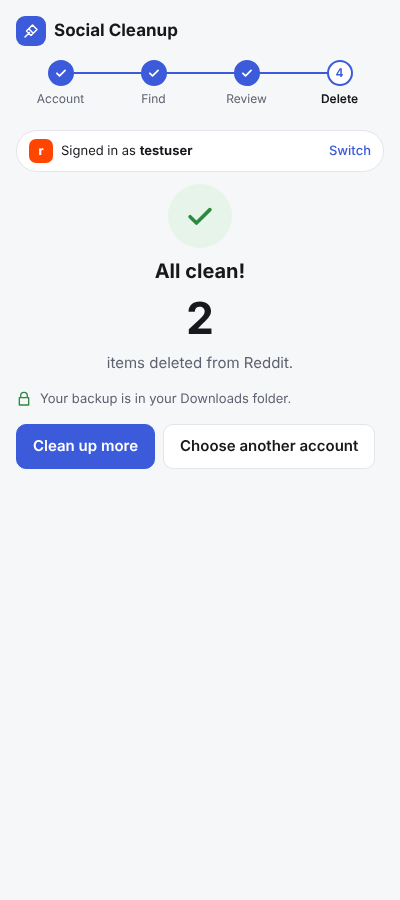
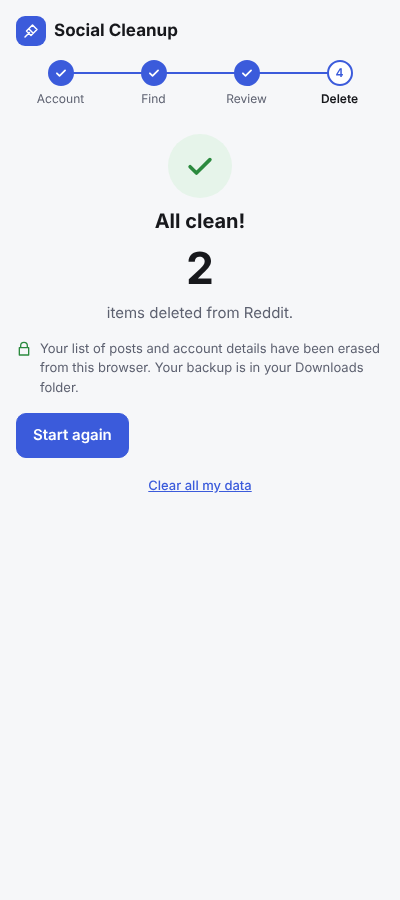
v0.3.2: erase data after each cleanup, add Clear all my data
When a cleanup finishes, the post list, username and activity log are
erased automatically (only items that failed are kept, for retry). A new
"Clear all my data" button on the first and last screens erases
everything the extension has stored, after a confirmation.

Claude-Session: https://claude.ai/code/session_013NpL9fuHkv5wYGZv5dDsxS

diff --git a/src/sidepanel/app.js b/src/sidepanel/app.js
@@ -30,6 +30,8 @@ const ui = {
   confirming: false,
   understood: false,
   confirmStop: false,
+  confirmClear: false,
+  cleared: false,
   importStatus: '',
 };
 
@@ -111,12 +113,26 @@ function renderStepper() {
 }
 
 function accountBar() {
+  if (!job?.user) return '';
   const c = cfg();
   return html`<div class="account">
     ${tile(c.tile, 'small')}
     <span>Signed in as <strong>${escapeHtml(job.user)}</strong></span>
     ${['running', 'paused'].includes(job.status) ? '' : '<button class="link" data-action="disconnect">Switch</button>'}
   </div>`;
+}
+
+// "Clear all my data", with an are-you-sure step.
+function clearDataBlock() {
+  if (ui.cleared) {
+    return `<div class="notice calm" role="status">${ICON.check}<div><strong>All your data has been erased</strong><p>Nothing from Social Cleanup is stored in this browser any more.</p></div></div>`;
+  }
+  if (ui.confirmClear) {
+    return `<div class="notice warn">${ICON.alert}<div><strong>Erase everything Social Cleanup has stored in this browser?</strong>
+      <p>This removes any lists of posts, account names and progress. Backup files in your Downloads folder aren't affected.</p>
+      <div class="actions"><button class="danger" data-action="clearAll">Yes, erase everything</button><button data-action="cancelClear">Cancel</button></div></div></div>`;
+  }
+  return '<button class="link clear-data" data-action="askClear">Clear all my data</button>';
 }
 
 // ---------- step 1: choose account ----------
@@ -136,7 +152,8 @@ function chooseView() {
   return html`<h2 class="title">Which account do you want to clean up?</h2>
     <p class="lead">Make sure you're signed in to it in this browser.</p>
     <div class="platforms">${cards}${soon}</div>
-    <div class="notice calm">${ICON.lock}<div><strong>Private by design</strong><p>Everything happens on this computer. We never see your password or your posts, and nothing is deleted until you say so.</p></div></div>`;
+    <div class="notice calm">${ICON.lock}<div><strong>Private by design</strong><p>Everything happens on this computer. We never see your password or your posts, and nothing is deleted until you say so.</p></div></div>
+    ${clearDataBlock()}`;
 }
 
 function signInHelpView() {
@@ -399,8 +416,7 @@ function doneView() {
     .slice(0, 50)
     .map((f) => `${escapeHtml(f.id)}: ${escapeHtml(f.error)}`)
     .join('\n');
-  return html`${accountBar()}
-    <div class="center stack">
+  return html`<div class="center stack">
       <span class="big-check ${failed.length ? 'partial' : ''}">${failed.length ? ICON.alert : ICON.check}</span>
       <h2 class="title">${failed.length ? 'Finished' : 'All clean!'}</h2>
       <p class="huge">${job.deleted.toLocaleString()}</p>
@@ -409,12 +425,12 @@ function doneView() {
     ${failed.length ? `<div class="notice warn">${ICON.alert}<div><strong>${plural(failed.length, 'item')} couldn't be deleted</strong>
       <p>Often they were already gone. You can try them again.</p>
       <details class="small"><summary>Show which</summary><div class="log">${list}</div></details></div></div>` : ''}
-    <p class="hint">${ICON.lock} Your backup is in your Downloads folder.</p>
+    <p class="hint">${ICON.lock} Your list of posts and account details have been erased from this browser${failed.length ? ' (except the items above, so you can retry them)' : ''}. Your backup is in your Downloads folder.</p>
     <div class="actions">
       ${failed.length ? '<button class="primary" data-action="retryFailed">Try those again</button>' : ''}
-      <button class="${failed.length ? '' : 'primary'}" data-action="reset">Clean up more</button>
-      <button data-action="disconnect">Choose another account</button>
-    </div>`;
+      <button class="${failed.length ? '' : 'primary'}" data-action="disconnect">Start again</button>
+    </div>
+    ${clearDataBlock()}`;
 }
 
 // ---------- rendering ----------
@@ -474,6 +490,7 @@ function startScan() {
 
 const actions = {
   pick: (btn) => {
+    ui.cleared = false;
     ui.platform = btn.dataset.platform;
     ui.types = PLATFORMS[ui.platform].types.map((t) => t.id);
     ui.checking = true;
@@ -541,6 +558,22 @@ const actions = {
     send('reset');
   },
   reset: () => send('reset'),
+  askClear: () => {
+    ui.confirmClear = true;
+    render();
+  },
+  cancelClear: () => {
+    ui.confirmClear = false;
+    render();
+  },
+  clearAll: async () => {
+    ui.confirmClear = false;
+    ui.cleared = true;
+    posts = [];
+    ui.keepIds.clear();
+    await send('clearAll');
+    render();
+  },
   retryFailed: () => send('start', { ids: job.failed.map((f) => f.id), options: job.options }),
 };
 
@@ -630,6 +663,7 @@ async function onJob(newJob) {
   }
   if (statusChanged) {
     ui.confirmStop = false;
+    ui.confirmClear = false;
     if (job?.status !== 'connected') ui.importStatus = '';
   }
   if (job?.status === 'ready' && statusChanged) {

diff --git a/tests/security.test.js b/tests/security.test.js
@@ -129,3 +129,58 @@ test('the extension asks for no more permissions than it needs', () => {
     assert.match(host, /^\*:\/\/(\*\.)?(reddit\.com|x\.com|twitter\.com|abs\.twimg\.com|facebook\.com)\/\*$/);
   }
 });
+
+test('finishing a cleanup erases the post list, username and log (keeps only failed items)', async () => {
+  const store = createMemoryStore();
+  const posts = ['a', 'b', 'c'].map((id) => ({ id, type: 'post', createdAt: 1, text: `secret ${id}` }));
+  const jobs = createJobManager({
+    store,
+    adapter: {
+      call: async (_p, method, args) => {
+        if (method === 'checkLogin') return { loggedIn: true, username: 'me', userId: '42' };
+        if (method === 'deletePost') return args.post.id === 'c' ? { ok: false, error: 'boom' } : { ok: true };
+      },
+    },
+    platforms: { reddit: { name: 'Reddit', limits: { delayMs: 0, maxPerHour: 10, scanDelayMs: 0 } } },
+    sleep: async () => {},
+  });
+  await jobs.checkLogin('reddit');
+  await jobs.importPosts({ posts });
+  await jobs.start({ ids: ['a', 'b', 'c'], options: {} });
+
+  const job = await store.getJob();
+  assert.equal(job.status, 'done');
+  assert.equal(job.deleted, 2);
+  assert.equal(job.user, null);
+  assert.equal(job.userId, null);
+  assert.deepEqual(job.log, []);
+  assert.deepEqual(job.queue, []);
+  assert.deepEqual((await store.getPosts('reddit')).map((p) => p.id), ['c'], 'only the failed item is kept, for retry');
+
+  // Retrying the failed item, then finishing again, leaves nothing behind.
+  await jobs.start({ ids: ['c'], options: {} });
+  assert.deepEqual((await store.getPosts('reddit')).map((p) => p.id), ['c']);
+});
+
+test('"Clear all my data" erases everything, even mid-cleanup', async () => {
+  const store = createMemoryStore();
+  const jobs = createJobManager({
+    store,
+    adapter: {
+      call: async (_p, method) => {
+        if (method === 'checkLogin') return { loggedIn: true, username: 'me' };
+        if (method === 'deletePost') {
+          await jobs.clearAll(); // user clicks "Clear all my data" while a delete is in flight
+          return { ok: true };
+        }
+      },
+    },
+    platforms: { reddit: { name: 'Reddit', limits: { delayMs: 0, maxPerHour: 10, scanDelayMs: 0 } } },
+    sleep: async () => {},
+  });
+  await jobs.checkLogin('reddit');
+  await jobs.importPosts({ posts: [{ id: 'a', type: 'post', createdAt: 1 }, { id: 'b', type: 'post', createdAt: 1 }] });
+  await jobs.start({ ids: ['a', 'b'], options: {} });
+  assert.equal(await store.getJob(), null, 'nothing written back after clearing');
+  assert.deepEqual(store.data.posts, {});
+});

diff --git a/tests/e2e/reddit.e2e.js b/tests/e2e/reddit.e2e.js
@@ -93,7 +93,27 @@ await runE2E(
     assert.equal(downloads.length, 2);
     assert.ok(downloads.some((f) => f.endsWith('.json')) && downloads.some((f) => f.endsWith('.html')));
     assert.ok(await panel.getByText('items deleted from Reddit').isVisible());
+
+    // Privacy: once finished, the extension keeps no posts, username or log.
+    const stored = await panel.evaluate(() => chrome.storage.local.get(null));
+    assert.deepEqual(stored['posts:reddit'], [], 'post list wiped after finishing');
+    assert.equal(stored.job.user, null, 'username wiped after finishing');
+    assert.deepEqual(stored.job.log, [], 'activity log wiped after finishing');
+    assert.ok(!JSON.stringify(stored).includes('testuser'), 'username nowhere in storage');
+    assert.ok(!JSON.stringify(stored).includes('Old self post'), 'post text nowhere in storage');
+    console.log('✓ finished cleanup left no posts, username or log in storage');
     await panel.screenshot({ path: path.join(RESULTS, 'done.png'), fullPage: true });
-    console.log('✓ deleted', deleted, '| overwritten', edited, '| backups', downloads);
+
+    // "Clear all my data" asks first, then erases everything.
+    await panel.getByRole('button', { name: 'Clear all my data' }).click();
+    await panel.getByRole('button', { name: 'Yes, erase everything' }).waitFor();
+    await panel.screenshot({ path: path.join(RESULTS, 'clear-confirm.png'), fullPage: true });
+    await panel.getByRole('button', { name: 'Yes, erase everything' }).click();
+    await panel.getByText('All your data has been erased').waitFor();
+    assert.deepEqual(await panel.evaluate(() => chrome.storage.local.get(null)), {}, 'storage not empty after clearing');
+    assert.ok(await panel.getByText('Which account do you want to clean up?').isVisible());
+    await panel.screenshot({ path: path.join(RESULTS, 'cleared.png'), fullPage: true });
+    console.log('✓ "Clear all my data" emptied the extension\'s storage');
+    console.log('✓ deleted', deleted, '| overwritten', edited, '| backups', [...downloads]);
   },
 );

diff --git a/src/background/jobManager.js b/src/background/jobManager.js
@@ -148,6 +148,29 @@ export function createJobManager({ store, adapter, platforms, sleep, now = Date.
     await store.setJob(newJob(job?.platform || 'reddit'));
   }
 
+  // When a cleanup finishes, erase what it no longer needs: the post list,
+  // the username and the activity log. Only posts that couldn't be deleted
+  // are kept, so "Try those again" still works.
+  async function finish(job, posts) {
+    // The user cleared everything (or reset) at the last moment: write nothing back.
+    if ((await store.getJob())?.id !== job.id) return;
+    const failedIds = new Set(job.failed.map((f) => f.id));
+    await store.setPosts(job.platform, [...posts.values()].filter((p) => failedIds.has(p.id)));
+    await store.setJob({
+      ...newJob(job.platform),
+      status: 'done',
+      deleted: job.deleted,
+      failed: job.failed,
+      options: job.options,
+      finishedAt: now(),
+    });
+  }
+
+  // "Clear all my data": stops any cleanup and erases everything stored.
+  async function clearAll() {
+    await store.clearAll();
+  }
+
   async function run() {
     if (running) return;
     running = true;
@@ -200,12 +223,11 @@ export function createJobManager({ store, adapter, platforms, sleep, now = Date.
         }
       }
 
-      job = await update({ status: 'done', finishedAt: now() });
-      await log(job, `Done. Deleted ${job.deleted}, failed ${job.failed.length}.`);
+      await finish(job, posts);
     } finally {
       running = false;
     }
   }
 
-  return { checkLogin, scan, importPosts, start, pause, resume, reset, disconnect, run, get running() { return running; } };
+  return { checkLogin, scan, importPosts, start, pause, resume, reset, disconnect, clearAll, run, get running() { return running; } };
 }

diff --git a/src/background/store.js b/src/background/store.js
@@ -17,6 +17,11 @@ export const chromeStore = {
   async setPosts(platform, posts) {
     await chrome.storage.local.set({ [`posts:${platform}`]: posts });
   },
+  // Erases everything the extension has stored in this browser.
+  async clearAll() {
+    await chrome.storage.local.clear();
+    await chrome.storage.session.clear();
+  },
 };
 
 export function createMemoryStore() {
@@ -34,6 +39,10 @@ export function createMemoryStore() {
     },
     async setPosts(platform, posts) {
       data.posts[platform] = structuredClone(posts);
+    },
+    async clearAll() {
+      data.job = null;
+      data.posts = {};
     },
   };
 }

diff --git a/src/sidepanel/styles.css b/src/sidepanel/styles.css
@@ -241,3 +241,4 @@ details.panel .grid2 { margin-top: 0; }
 @keyframes spin { to { transform: rotate(360deg); } }
 @media (prefers-reduced-motion: reduce) { .spinner { animation-duration: 2.5s; } * { transition: none !important; } }
 .small-hint { margin: 6px 0 0; font-size: 12px; }
+.clear-data { display: block; margin: 18px auto 0; font-size: 13px; color: var(--muted); text-decoration: underline; }

diff --git a/src/background/worker.js b/src/background/worker.js
@@ -114,6 +114,7 @@ const handlers = {
   resume: () => jobs.resume(),
   reset: () => jobs.reset(),
   disconnect: () => jobs.disconnect(),
+  clearAll: () => jobs.clearAll(),
 };
 
 // Lets the X adapter read x.com's public script bundle if CORS blocks it in

diff --git a/README.md b/README.md
@@ -58,7 +58,8 @@ X only shows your newest ~3,200 posts, so Social Cleanup uses the copy of your d
 - **No passwords and no API keys.** It uses the session you already have open in your browser.
 - **Minimal permissions.** It can only access reddit.com, x.com / twitter.com and facebook.com. It can't see any other site you visit.
 - **Websites can't control it.** Only the extension's own panel can start or change a cleanup.
-- **Your list of posts is wiped** from the extension when you start over or switch account. The backup files in your Downloads folder are yours to keep or delete.
+- **Nothing is kept after a cleanup.** When it finishes, the list of posts, your username and the activity log are erased from the browser automatically. (If a few posts couldn't be deleted, just those are kept so you can retry them.)
+- **"Clear all my data"** on the first and last screens erases everything Social Cleanup has stored, at any time. The backup files in your Downloads folder are yours to keep or delete.
 
 These protections are checked by automated tests on every change.
 
